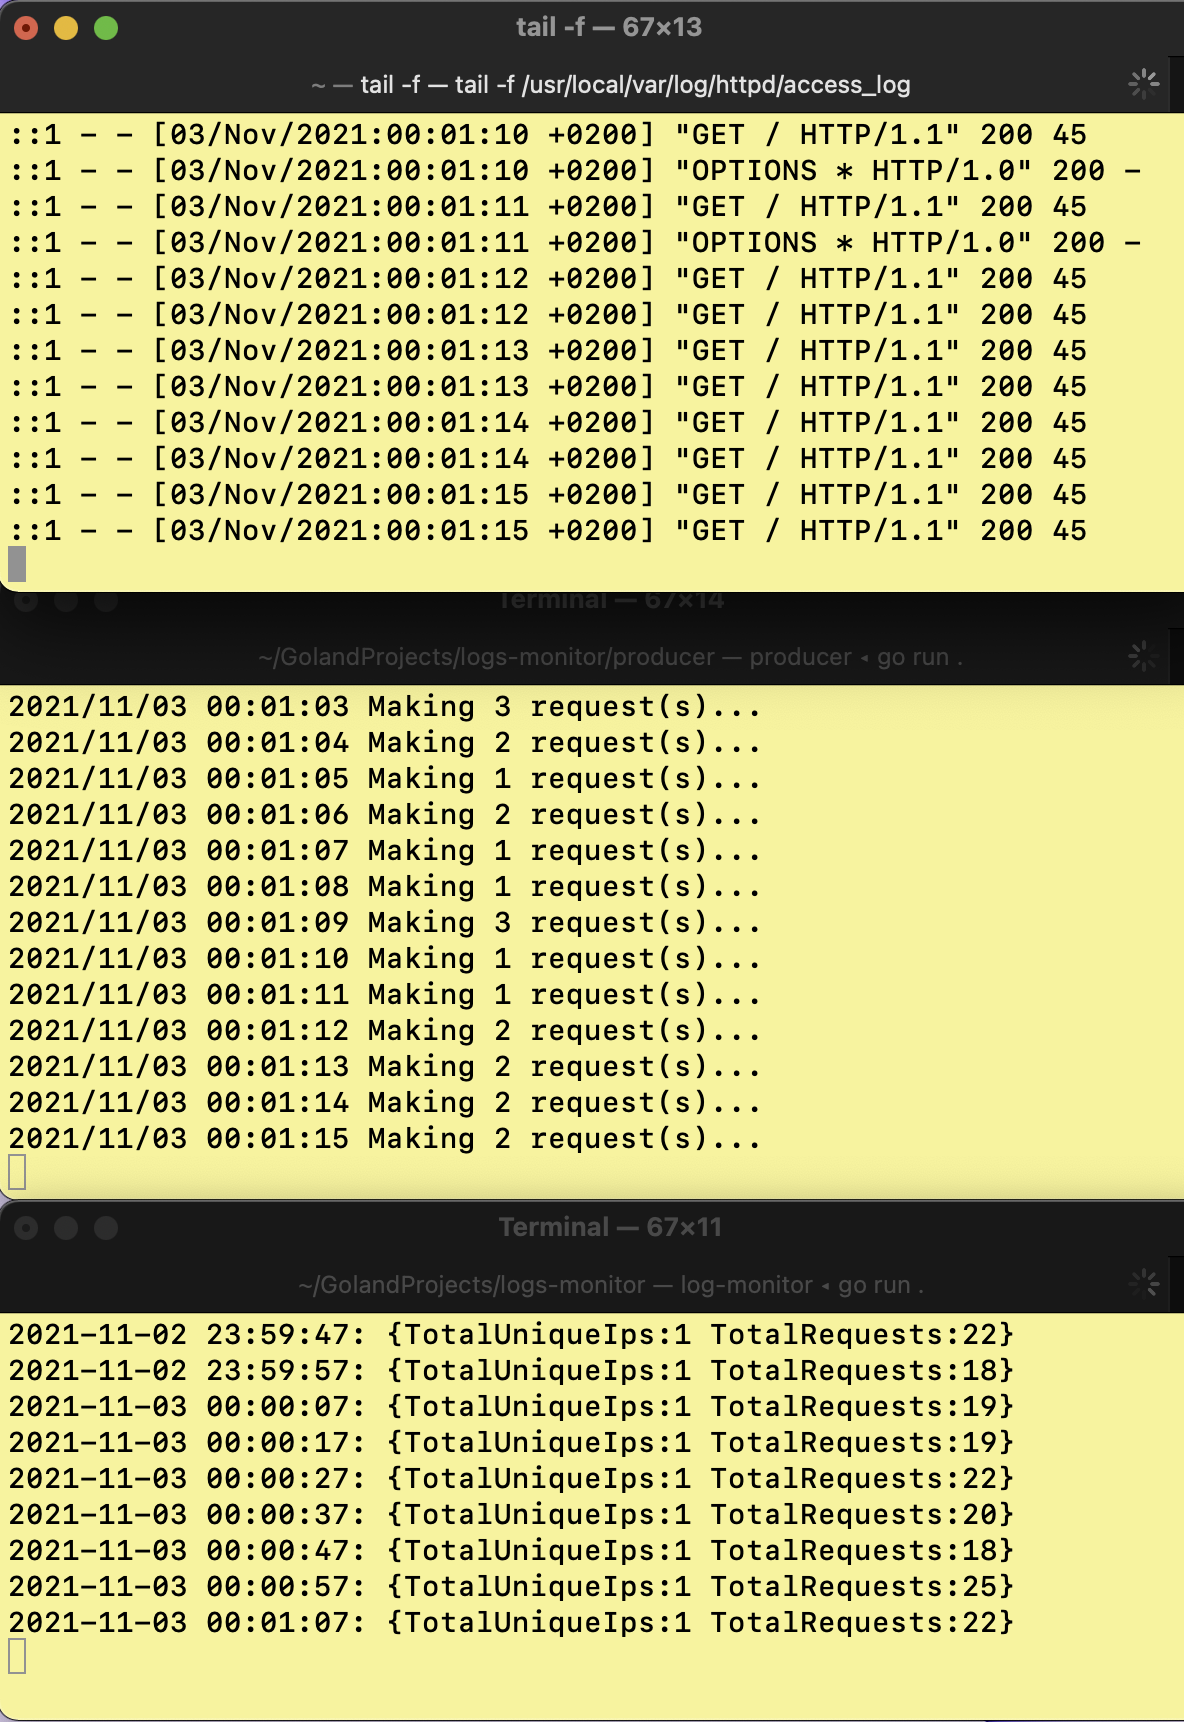
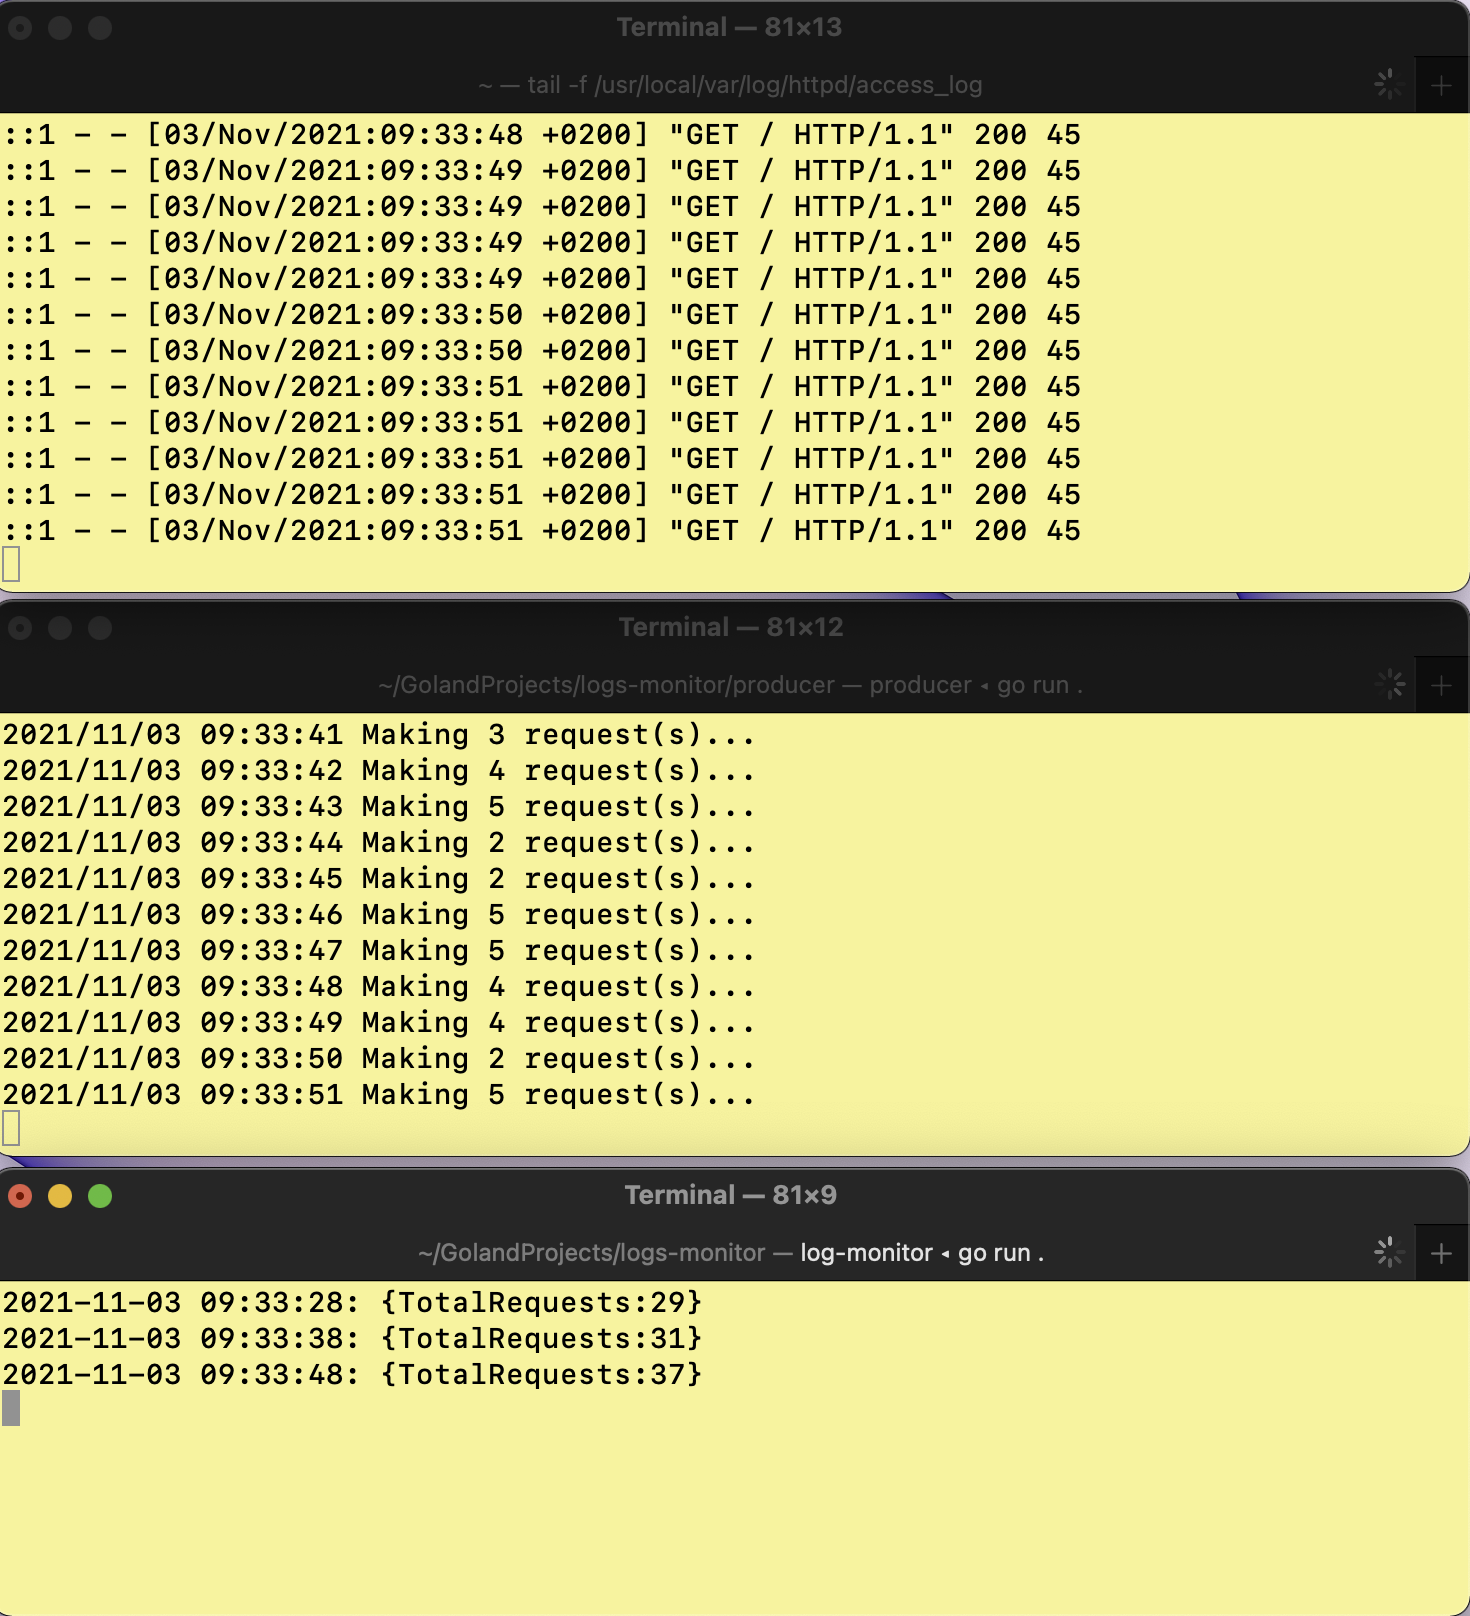
refactoring

diff --git a/logs/parser.go b/logs/parser.go
@@ -1,49 +1,13 @@
 package logs
 
-import (
-	"regexp"
-)
-
 type Parser struct{}
 
 type ParseResult struct {
-	TotalUniqueIps int
-	TotalRequests  int
+	TotalRequests int
 }
 
 func (p Parser) Parse(logs []string) ParseResult {
 	return ParseResult{
-		TotalUniqueIps: len(p.uniqueIps(logs)),
-		TotalRequests:  len(logs),
+		TotalRequests: len(logs),
 	}
-}
-
-func (p Parser) uniqueIps(logs []string) map[string]bool {
-	var ips = make(map[string]bool)
-	var r = regexp.MustCompile(`([:0-9])+`)
-	for _, log := range logs {
-		ip := r.FindString(log)
-		_, ok := ips[ip]
-		if !ok {
-			ips[ip] = true
-		}
-	}
-
-	return ips
-}
-
-func getCountByStatusCode(logs []string, statusCode int) int {
-	countByStatusCode := 0
-	var r = regexp.MustCompile(`\s(\d{3})\s(\d{3})`)
-	for _, log := range logs {
-		matches := r.FindStringSubmatch(log)
-		if len(matches) > 0 {
-			statusCodeInt := strToInt(matches[1])
-			if statusCodeInt == statusCode {
-				countByStatusCode += 1
-			}
-		}
-	}
-
-	return countByStatusCode
 }

diff --git a/main.go b/main.go
@@ -21,14 +21,13 @@ func main() {
 			parsedLogs, lastReadNum := logsReader.Read(filePath, previousLineNum)
 			previousLineNum = lastReadNum
 
-			t:= time.Now().Format("2006-01-02 15:04:05")
+			t := time.Now().Format("2006-01-02 15:04:05")
 			if len(parsedLogs) > 0 {
 				r := logsParser.Parse(parsedLogs)
 				fmt.Printf("%s: %+v\n", t, r)
 			} else {
 				fmt.Printf("%s: %+v\n", t, logs.ParseResult{
-					TotalUniqueIps: 0,
-					TotalRequests:  0,
+					TotalRequests: 0,
 				})
 			}
 		}

diff --git a/producer/main.go b/producer/main.go
@@ -18,7 +18,7 @@ func main() {
 
 			rand.Seed(time.Now().UnixNano())
 			min := 1
-			max := 10
+			max := 5
 			limit := rand.Intn(max-min+1) + min
 			log.Println(fmt.Sprintf("Making %d request(s)...", limit))
 
@@ -30,5 +30,4 @@ func main() {
 			}
 		}
 	}
-
 }
